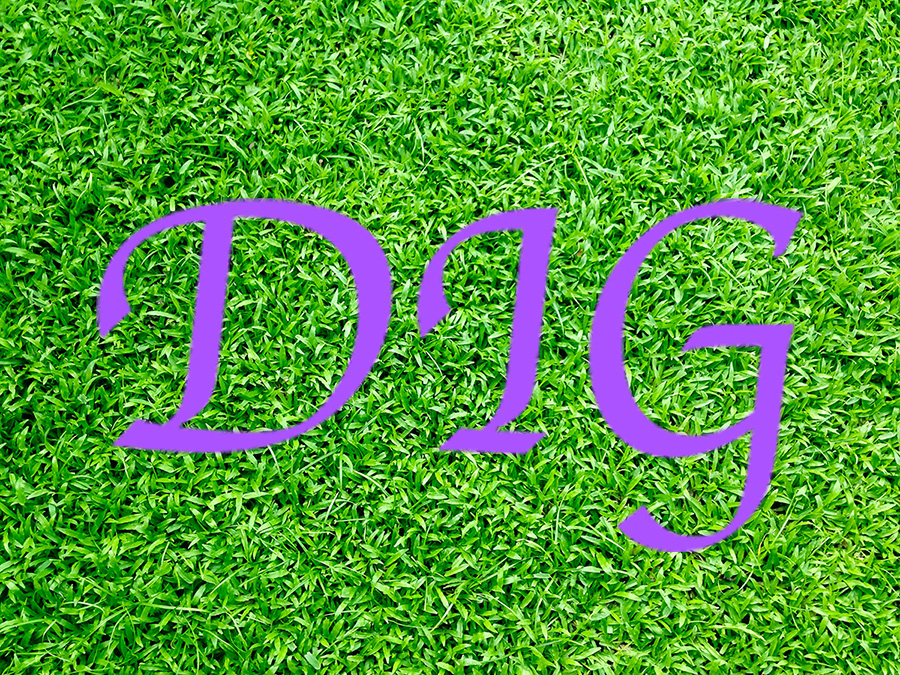
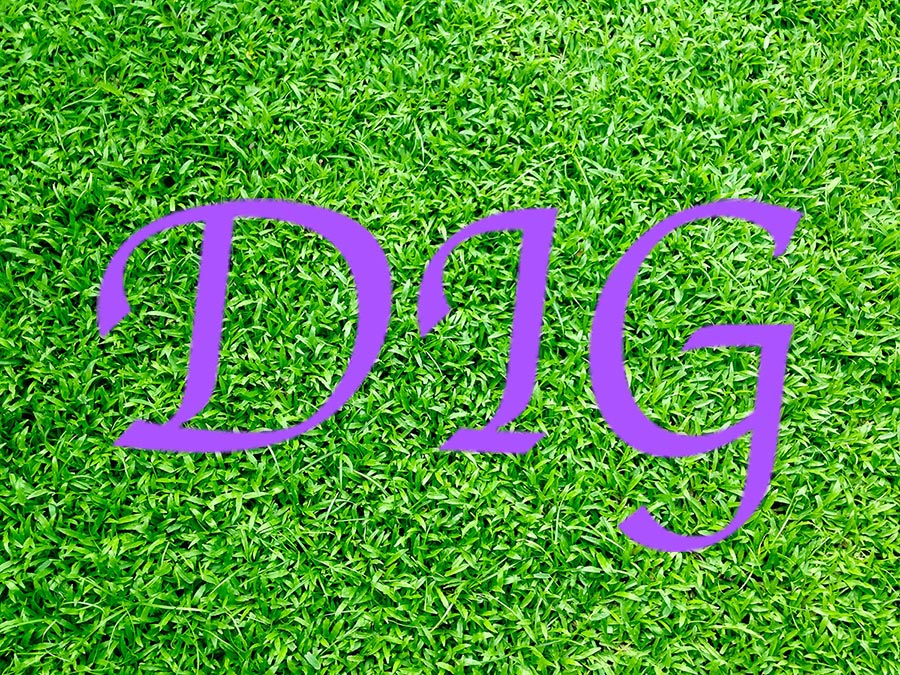
made grass image lower res

Changed region(s): [[0.0, 0.0, 1.0, 1.0]]

diff --git a/css/my-css.css b/css/my-css.css
@@ -423,3 +423,7 @@ a:hover{
   left: 0;
   z-index: -6;
 }
+
+body, html {
+  height: 100%;
+}
